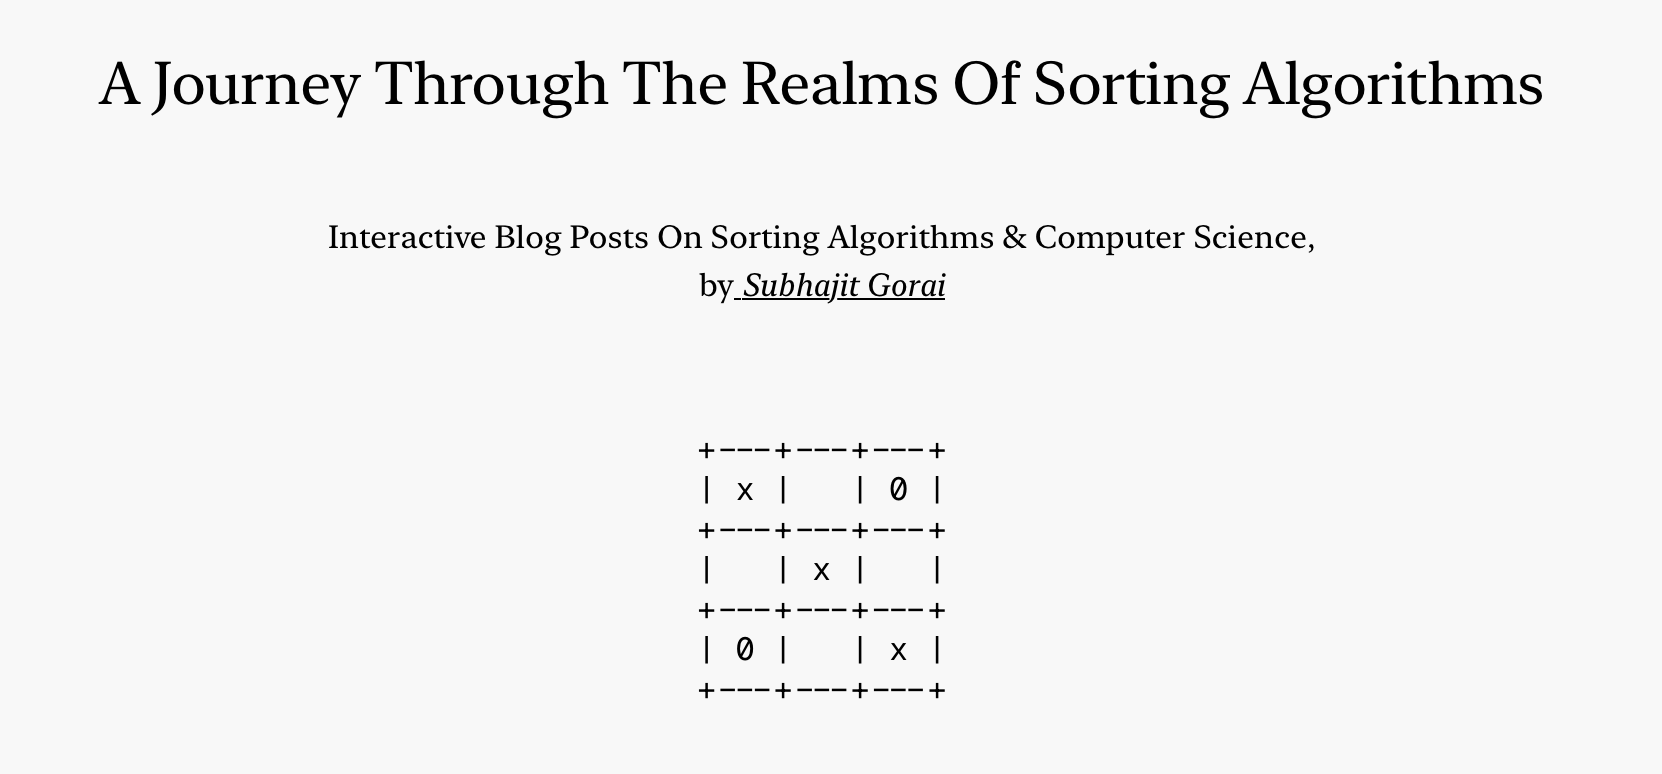
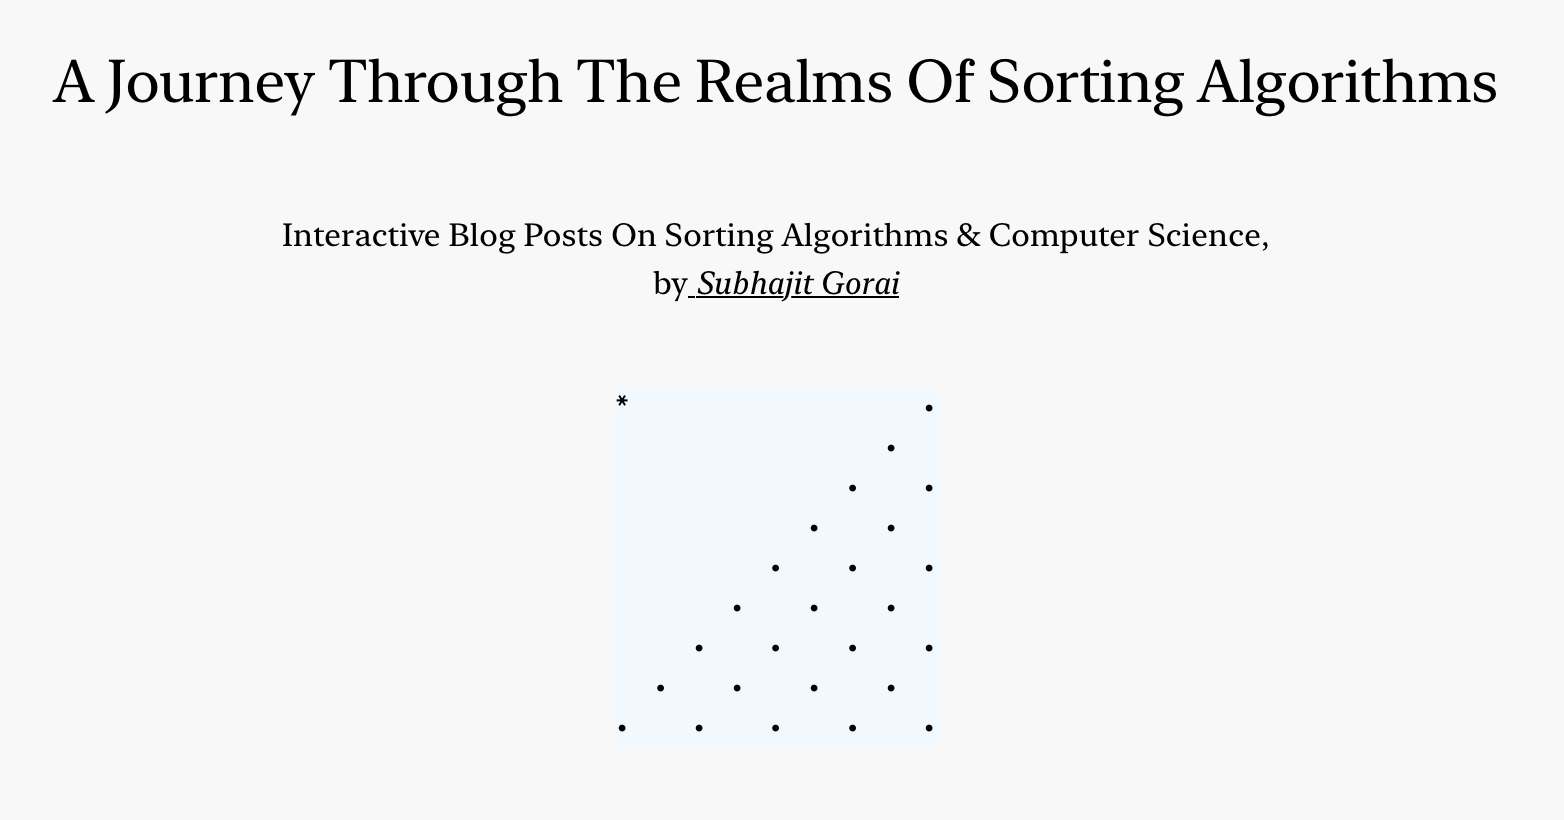
update: minor changes

diff --git a/src/app/page.tsx b/src/app/page.tsx
@@ -5,7 +5,7 @@ export default async function Home() {
   return (
     <div className="flex md:items-center justify-center size-full h-screen py-4 md:py-0">
       <section
-        className="h-full md:h-[80vh] w-[90dvw] max-w-[1368px]  bg-[#f8f8f8] dark:bg-neutral-900 text-black dark:text-[#f8f8f8]
+        className="h-full md:h-[80vh] w-[90dvw] max-w-[1368px] bg-[#f8f8f8] dark:bg-neutral-900 text-black dark:text-[#f8f8f8]
         border border-dashed border-neutral-300/80 dark:border-neutral-700/80 p-6 py-10
         flex flex-col justify-start items-center relative"
       >
@@ -26,18 +26,16 @@ export default async function Home() {
         </p>
 
         <div className="diagram front-cover my-10">
-          <pre className="whitespace-pre wrap-break-word font-mono leading-tight">
-            {`
-•---•---•---•---•
-|   |   |   | x |
-•---+---+---+---•
-|   |   | x | x |
-•---+---+---+---•
-|   | x | x | x |
-•---+---+---+---•
-| x | x | x | x |
-•---•---•---•---•
-            `}
+          <pre className="whitespace-pre wrap-break-word font-mono leading-tight bg-sky-50">
+            {`*               •
+              •
+            •   •
+          •   •
+        •   •   •
+      •   •   •
+    •   •   •   •
+  •   •   •   •
+•   •   •   •   •`}
           </pre>
         </div>
 
